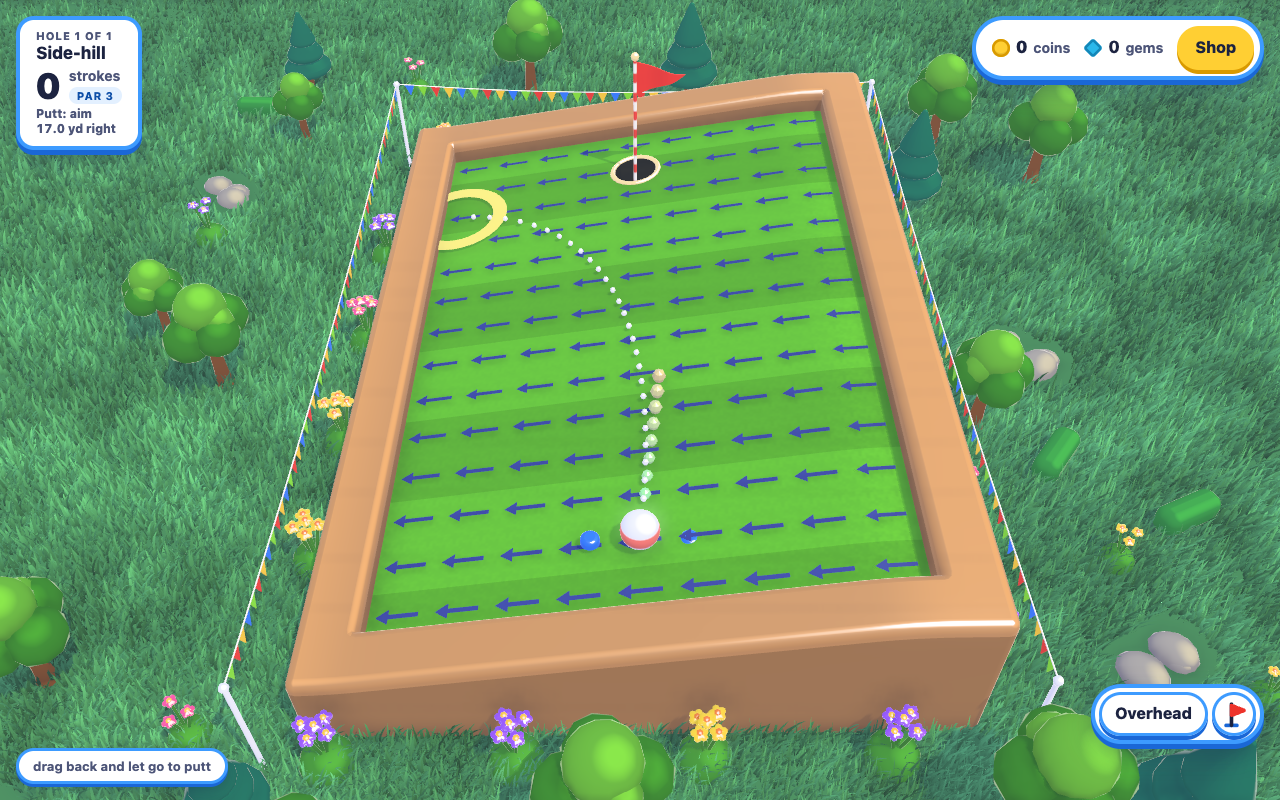
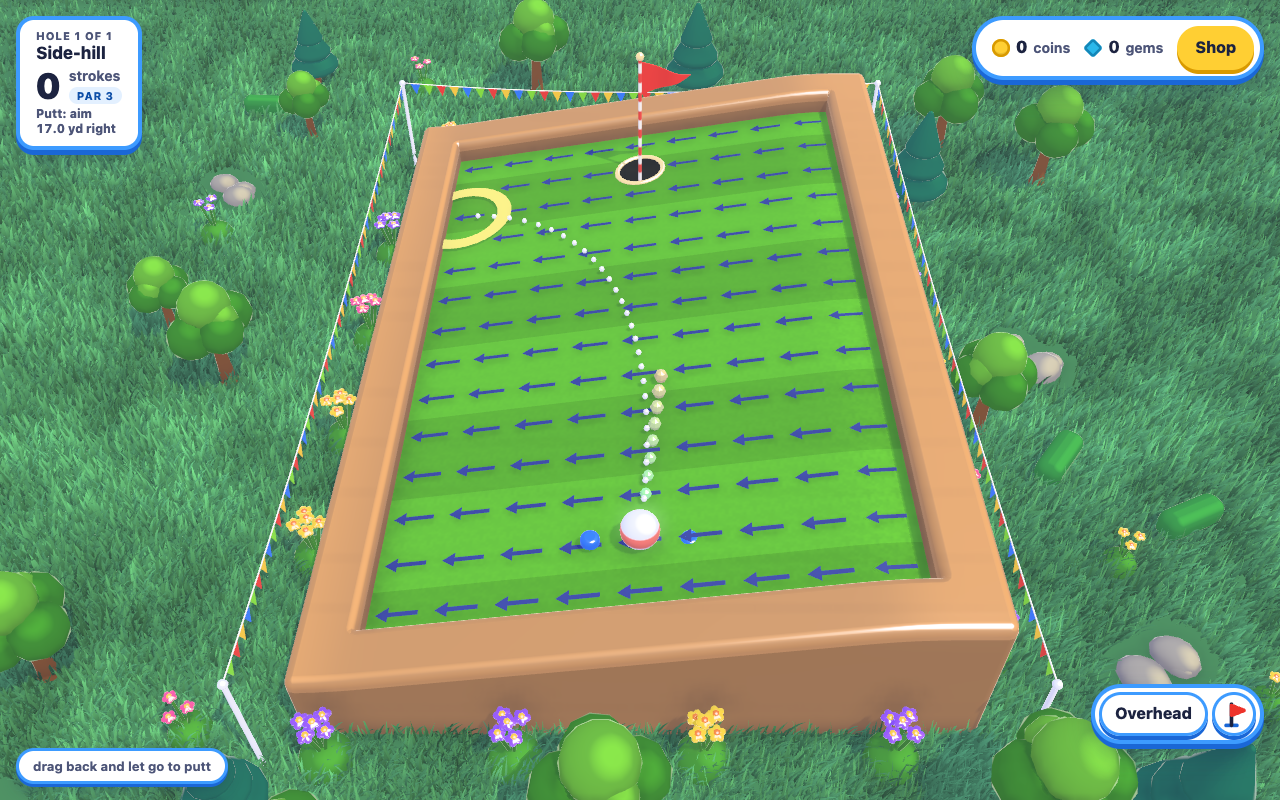
A finger in a smoke test goes down once the panels have landed, so the phone's drive is no longer taken by a button sweeping past
The phone drive's picture missed its preview about one run in three, noted on 3
October and not understood. Found by recording the page's pointer events at that
commit: in 7 runs of 20 the drag's first touch went to the view switch's Aim
button, which was still springing in on the wall clock and swept within a pixel
of the point the drag began at, and Chrome gives a touch that close to the
button, so the browser took the drag and no shot was aimed. The switch has moved
since, and once landed the nearest button is 26 px off; one miss in about 420
runs today was seen and not caught again, so its cause is not proven.

`drag` and `touches` in smoke/game.ts now wait for every animation on the page
that ends (`landed`), as a player puts a finger down on a screen that has come
to rest; on the old commit that took the miss from 4 in 20 to none. `pullDown`
in the look tests now fails, when a drag aims nothing, saying what was under the
finger, so the next miss names itself (seen naming the Overhead button when the
drag was pointed at it). The three phone drives passed 90 of 90.

slope-aim.png is written again: it failed on the parent too, the camera turned a
little since the dead zone, and was looked at. The whole smoke suite passed 322
of 323 before that. CLAUDE.md says what was found and DESIGN.md drops the open
question.

diff --git a/smoke/game.ts b/smoke/game.ts
@@ -65,10 +65,29 @@ export async function start(
 }
 
 /**
+ * The panels landed: every animation on the page that ends has ended. A hole begun springs its panels in on the wall clock,
+ * not the game's, and a finger put down while one is on its way can land on a button sweeping past instead of the course,
+ * so the browser takes the drag and no shot is aimed. The phone's drive picture missed so about one run in four on 3 October
+ * 2026, when the view switch's arrival crossed the point its drag began at. A player puts a finger down on a screen that
+ * has come to rest, and so does a test. An animation that never ends is not waited for, or it would be waited for ever.
+ */
+export async function landed(page: Page) {
+  await page.evaluate(() =>
+    Promise.all(
+      document
+        .getAnimations()
+        .filter((a) => Number.isFinite(Number(a.effect?.getComputedTiming().endTime)))
+        .map((a) => a.finished.catch(() => null)),
+    ),
+  );
+}
+
+/**
  * A drag on the page, as a finger or a mouse makes it: pressed at `from`,
- * moved to `to` in `steps` moves, and let go unless told to hold it. Touch
- * goes through Chrome's own touch events, so the page gets the pointer events
- * a phone gives it; the page must have been opened with touch on.
+ * moved to `to` in `steps` moves, and let go unless told to hold it, once the
+ * panels have landed. Touch goes through Chrome's own touch events, so the page
+ * gets the pointer events a phone gives it; the page must have been opened with
+ * touch on.
  */
 export async function drag(
   page: Page,
@@ -77,6 +96,7 @@ export async function drag(
   options: { touch?: boolean; hold?: boolean; steps?: number } = {},
 ) {
   const { touch, hold, steps = 6 } = options;
+  await landed(page);
   const at = (k: number) => ({ x: from.x + ((to.x - from.x) * k) / steps, y: from.y + ((to.y - from.y) * k) / steps });
   if (!touch) {
     await page.mouse.move(from.x, from.y);
@@ -97,9 +117,10 @@ export async function drag(
  * Fingers on the page, through Chrome's own touch events: each step a list
  * of where every finger down is, by its id, and an empty list to lift them
  * all. A finger missing from a step has lifted. The page must have been
- * opened with touch on.
+ * opened with touch on. The first finger goes down once the panels have landed.
  */
 export async function touches(page: Page, steps: { id: number; x: number; y: number }[][]) {
+  await landed(page);
   const cdp = await page.context().newCDPSession(page);
   let down = new Set<number>();
   for (const points of steps) {

diff --git a/smoke/look.spec.ts b/smoke/look.spec.ts
@@ -83,6 +83,15 @@ async function pullDown(page: Page, share: number, across = 0, touch = false) {
   const from = { x: size.width / 2, y: size.height * 0.15 };
   await drag(page, from, { x: from.x + across, y: from.y + share * 0.35 * short }, { hold: true, touch });
   await page.evaluate(() => window.game!.step(2));
+  // a drag held that aims nothing is said for what it is, with what was under the finger, and not left to fail later as a
+  // preview that is not there: the phone's drive once missed so one run in four, and once in four hundred after that
+  const missed = await page.evaluate(({ x, y }) => {
+    if (window.game!.aiming()) return null;
+    const e = document.elementFromPoint(x, y) as HTMLElement | null;
+    const s = window.game!.state();
+    return `under the finger ${e?.tagName}#${e?.id || e?.closest('[id]')?.id}, ready ${s.ready}, choosing ${s.choosing}, mode ${window.game!.view().mode}`;
+  }, from);
+  expect(missed, 'the drag aimed a shot').toBeNull();
 }
 
 /**

diff --git a/CLAUDE.md b/CLAUDE.md
@@ -1146,8 +1146,12 @@ each step, and a gate handed what it needs in the same change:
   stands on level ground. No belt may stand on a slope in a picture until the scene lifts them.
 - A stream that can be crossed, or a belt that lets a ball off it: see the kinds above. A ring of belts holds a ball for
   good and a real turntable is a package change, so Carousel is a mound with belts round it, and the turntable was dropped.
-- A phone drive's picture is flaky: the shot preview is null after a real drag in about one run in three of the smoke
-  test that drives it. It was there before the new courses, and is not understood.
+- A drag in a smoke test begun while the panels were still springing in. Found 8 October 2026: the phone drive's picture
+  missed about one run in four on 3 October because the view switch's arrival swept within a pixel of where its drag began,
+  and Chrome gives a touch that close to the button, so the browser took the drag and nothing was aimed. `drag` and
+  `touches` in `smoke/game.ts` now wait for the panels to land (`landed`), and `pullDown` says what was under the finger
+  when a drag aims nothing. One miss in about 420 runs since the switch moved was seen once and not caught again, so its
+  cause is not proven; the next one names itself.
 - The course a player is on, in the save: a reload opens the start screen.
 - Steps a ball meets as ledges. v0.8.0's `stepEdges` bounces a ball off a
   step's top edge and lets it climb a riser only with speed; tried on the

diff --git a/DESIGN.md b/DESIGN.md
@@ -442,8 +442,6 @@ Each line is a feature or more, through `/feature`, every gate green at each.
   under it, as a pond has, is the likely way).
 - Belts on a slope. The physics allows them, but the scene draws every belt at the height of the grass, so one on a slope
   is buried, and no belt may stand on one in a picture until the scene lifts them. The Lift and The Flood are level for it.
-- The phone's drive picture: after a real drag on a phone, the shot preview is null in about one run in three. It was
-  there before the new courses.
 - Matters of taste, for the user to settle and not bugs: the flipper is a plain blue slab; a stream lies level with the
   grass and reads as a painted lane; Three Cushion's pocket is the grass's own green and reads as a slab; Carousel is a mound
   with belts round it and not a carousel; and The Rapids is busy.
